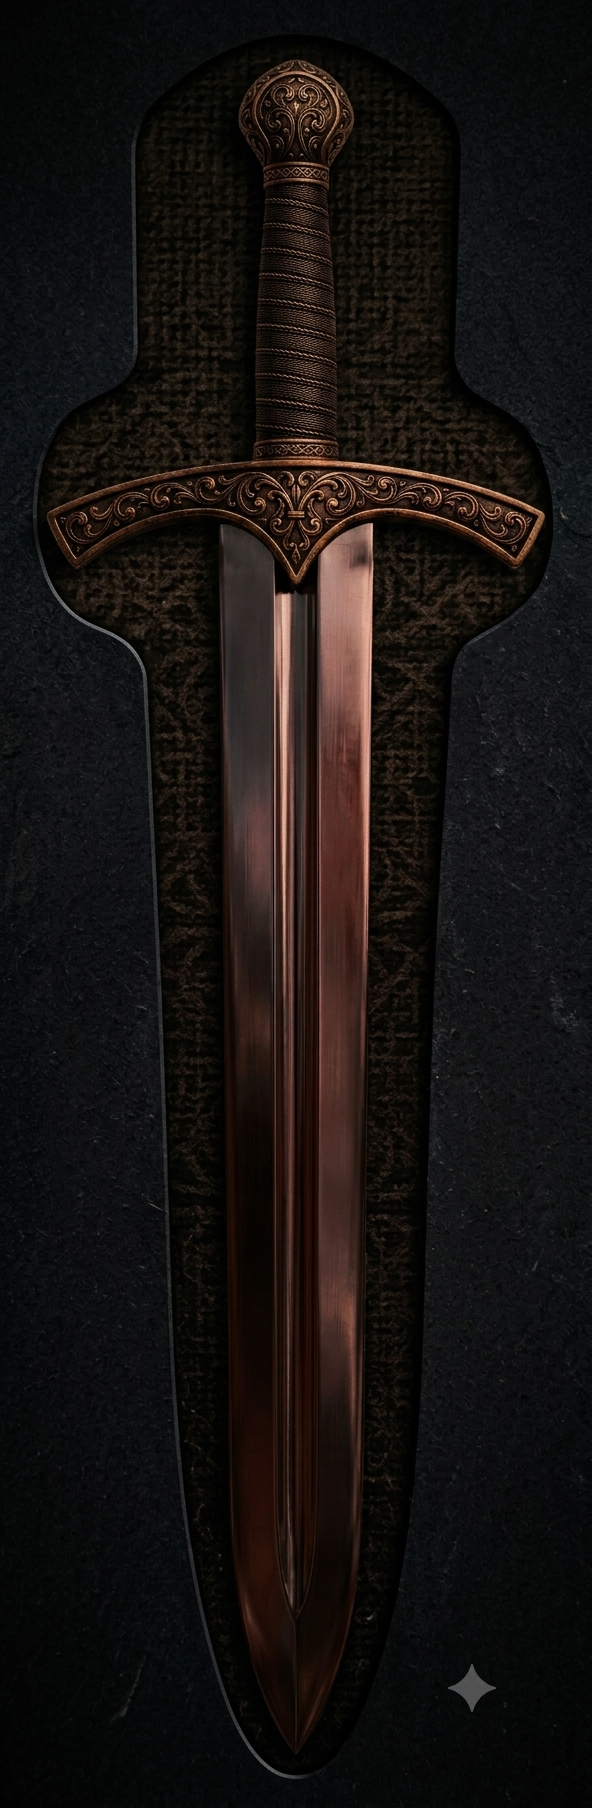
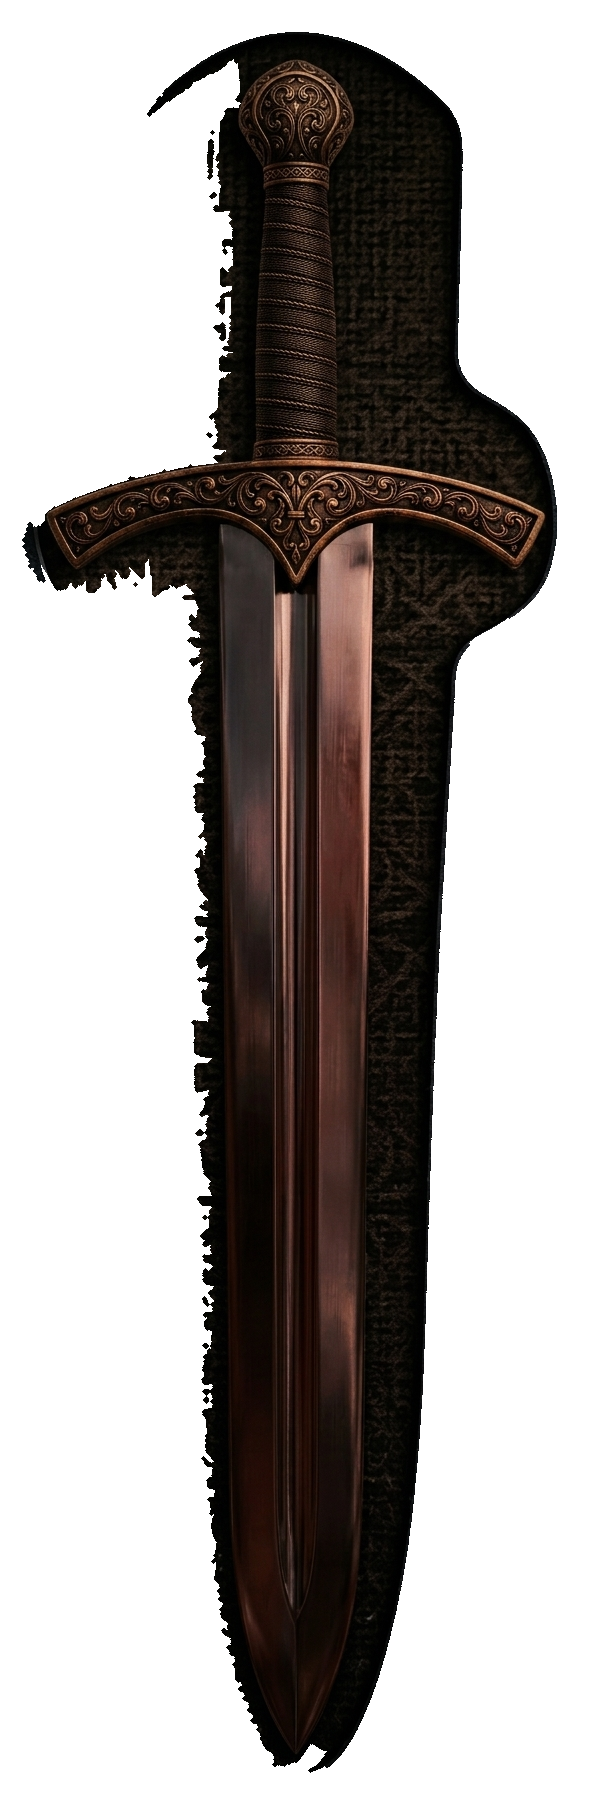
Cut sword-token backgrounds + apply tuned swords-board coordinates
- Isolate the plaque silhouette from the flat outer margin: derive a clean mask
  from the white sword (border flood-fill + largest-component + hole-fill +
  morphological open) and apply the SAME mask to the black sword, so both tokens
  share an identical transparent silhouette at 592x1808.
- Update CAMELOT_SWORDS_POS to the tuned 15-slot layout and token width to 9.25%.

Bump to shadows-v135.

diff --git a/index.html b/index.html
@@ -889,7 +889,7 @@
     .swords-board { position: relative; width: 100%; max-width: 420px; margin: 0.25rem auto; }
     .swords-board .swords-bg { width: 100%; height: auto; display: block; border-radius: 8px; }
     .swords-token {
-      position: absolute; width: 6%; transform: translate(-50%, -50%);
+      position: absolute; width: 9.25%; transform: translate(-50%, -50%);
       pointer-events: none; transition: opacity 1.4s ease;
     }
     .swords-token img { width: 100%; display: block; filter: drop-shadow(0 2px 4px rgba(0,0,0,0.6)); }
@@ -1303,7 +1303,7 @@
 
   <script>
     'use strict';
-    const APP_VERSION = 'shadows-v134';
+    const APP_VERSION = 'shadows-v135';
     document.getElementById('app-version').textContent = APP_VERSION;
 
     // ═══════════════════════════════════════════════════════════════════
@@ -7135,10 +7135,10 @@ OUTPUT STYLE — read carefully:
     // of the board image, tuned via camelot-swords-preview. Each entry is [x, y, rot-deg]. Swords fill
     // in array order (slot i = swords[i]); each is white or black from the live board/swords list.
     const CAMELOT_SWORDS_POS = [
-      [0.3000, 0.2000, 0], [0.4200, 0.1700, 0], [0.5400, 0.1700, 0], [0.6600, 0.2000, 0],
-      [0.7400, 0.3000, 0], [0.7800, 0.4200, 0], [0.7800, 0.5400, 0], [0.7400, 0.6600, 0],
-      [0.6600, 0.7400, 0], [0.5400, 0.7800, 0], [0.4200, 0.7800, 0], [0.3000, 0.7400, 0],
-      [0.2400, 0.6200, 0], [0.2200, 0.4800, 0], [0.2400, 0.3400, 0],
+      [0.6333, 0.2351, 17], [0.7364, 0.2851, 43], [0.7886, 0.3954, 71], [0.7848, 0.5248, 105],
+      [0.7250, 0.6176, 135], [0.6280, 0.6644, 161], [0.5174, 0.6414, -161], [0.4174, 0.5954, -137],
+      [0.3841, 0.4994, -103], [0.3583, 0.3891, -67], [0.4189, 0.2851, -45], [0.5182, 0.2359, -17],
+      [0.5705, 0.1605, -2], [0.7212, 0.1883, 35], [0.8311, 0.3057, 56],
     ];
     // Render the swords board from an array of { color:'white'|'black' } (up to 15).
     function camelotSwordsBoardHTML(swords) {

diff --git a/sw.js b/sw.js
@@ -2,7 +2,7 @@
 // Cache-first for assets, network-first for HTML.
 // Bump CACHE_NAME (and APP_VERSION in index.html) to invalidate cache on updates.
 
-const CACHE_NAME = 'shadows-v134';
+const CACHE_NAME = 'shadows-v135';
 
 const ASSETS_TO_CACHE = [
   './',
